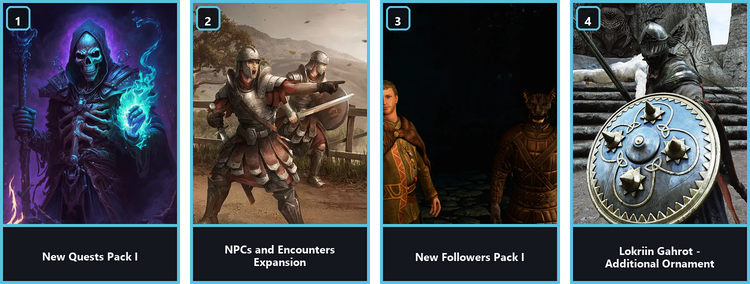
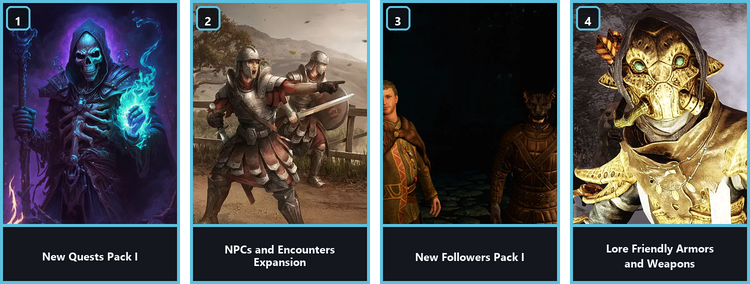
Add files via upload

Changed region(s): [[0.7667, 0.0, 1.0, 0.7887], [0.7973, 0.8451, 0.9507, 0.9577]]

diff --git a/ja1zamp_collections.html b/ja1zamp_collections.html
@@ -23,7 +23,7 @@ summary{cursor:pointer;color:#5bc0de;font-weight:bold;font-size:15px;}
 <h3>❗ Essentials</h3>
 <p class='note'>Pick ONE base: Use either SKSE and Behaviours Essentials (Full) or Truly Essentials for AE 1.6.1170 (Lite), never both. Bug Fixes & Optimization works alongside either one.</p>
 <div class='row-block'>
-<a href='https://www.nexusmods.com/profile/Ja1zinZamp/collections' target='_blank'><img src='cards/row_01_01.png?v=20261121205211'></a>
+<a href='https://www.nexusmods.com/profile/Ja1zinZamp/collections' target='_blank'><img src='cards/row_01_01.png?v=20261121210842'></a>
 <div class='pill-row'>
 <a class='pill' href='https://www.nexusmods.com/games/skyrimspecialedition/collections/h2uqa3' target='_blank' title='SKSE and Behaviours Essentials'>1. SKSE and<br>Behaviours<br>Essentials</a>
 <a class='pill' href='https://www.nexusmods.com/games/skyrimspecialedition/collections/llafgc' target='_blank' title='Truly Essentials for AE 1.6.1170'>2. Truly<br>Essentials for<br>AE 1.6.1170</a>
@@ -31,7 +31,7 @@ summary{cursor:pointer;color:#5bc0de;font-weight:bold;font-size:15px;}
 </div></div>
 <h3>🍦 Vanilla Overhaul</h3>
 <div class='row-block'>
-<a href='https://www.nexusmods.com/profile/Ja1zinZamp/collections' target='_blank'><img src='cards/row_02_01.png?v=20261121205211'></a>
+<a href='https://www.nexusmods.com/profile/Ja1zinZamp/collections' target='_blank'><img src='cards/row_02_01.png?v=20261121210842'></a>
 <div class='pill-row'>
 <a class='pill' href='https://www.nexusmods.com/games/skyrimspecialedition/collections/sto3mb' target='_blank' title='Vanilla Quests Expanded'>1. Vanilla<br>Quests Expanded</a>
 <a class='pill' href='https://www.nexusmods.com/games/skyrimspecialedition/collections/cujvny' target='_blank' title='Dragonborn DLC Overhaul'>2. Dragonborn<br>DLC Overhaul</a>
@@ -39,7 +39,7 @@ summary{cursor:pointer;color:#5bc0de;font-weight:bold;font-size:15px;}
 <a class='pill' href='https://www.nexusmods.com/games/skyrimspecialedition/collections/09afko' target='_blank' title='College of Winterhold Overhaul'>4. College of<br>Winterhold<br>Overhaul</a>
 </div></div>
 <div class='row-block'>
-<a href='https://www.nexusmods.com/profile/Ja1zinZamp/collections' target='_blank'><img src='cards/row_02_02.png?v=20261121205211'></a>
+<a href='https://www.nexusmods.com/profile/Ja1zinZamp/collections' target='_blank'><img src='cards/row_02_02.png?v=20261121210842'></a>
 <div class='pill-row'>
 <a class='pill' href='https://www.nexusmods.com/games/skyrimspecialedition/collections/arqlgk' target='_blank' title='Dark Brotherhood Overhaul'>5. Dark<br>Brotherhood<br>Overhaul</a>
 <a class='pill' href='https://www.nexusmods.com/games/skyrimspecialedition/collections/ezfrwp' target='_blank' title='The Companions Extended'>6. The<br>Companions<br>Extended</a>
@@ -48,7 +48,7 @@ summary{cursor:pointer;color:#5bc0de;font-weight:bold;font-size:15px;}
 </div></div>
 <h3>🎮 Gameplay and Animations</h3>
 <div class='row-block'>
-<a href='https://www.nexusmods.com/profile/Ja1zinZamp/collections' target='_blank'><img src='cards/row_03_01.png?v=20261121205211'></a>
+<a href='https://www.nexusmods.com/profile/Ja1zinZamp/collections' target='_blank'><img src='cards/row_03_01.png?v=20261121210842'></a>
 <div class='pill-row'>
 <a class='pill' href='https://www.nexusmods.com/games/skyrimspecialedition/collections/eig8v7' target='_blank' title='The Simplest Better Skyrim'>1. The Simplest<br>Better Skyrim</a>
 <a class='pill' href='https://www.nexusmods.com/games/skyrimspecialedition/collections/fccua3' target='_blank' title='Animations Reworked'>2. Animations<br>Reworked</a>
@@ -56,7 +56,7 @@ summary{cursor:pointer;color:#5bc0de;font-weight:bold;font-size:15px;}
 <a class='pill' href='https://www.nexusmods.com/games/skyrimspecialedition/collections/8w2hqx' target='_blank' title='Shouts and Dragons Overhaul'>4. Shouts and<br>Dragons<br>Overhaul</a>
 </div></div>
 <div class='row-block'>
-<a href='https://www.nexusmods.com/profile/Ja1zinZamp/collections' target='_blank'><img src='cards/row_03_02.png?v=20261121205211'></a>
+<a href='https://www.nexusmods.com/profile/Ja1zinZamp/collections' target='_blank'><img src='cards/row_03_02.png?v=20261121210842'></a>
 <div class='pill-row'>
 <a class='pill' href='https://www.nexusmods.com/games/skyrimspecialedition/collections/36l5v1' target='_blank' title='Logical Races System'>5. Logical<br>Races System</a>
 <a class='pill' href='https://www.nexusmods.com/games/skyrimspecialedition/collections/9y11vf' target='_blank' title='Vokun - Stealth & Crime Overhaul'>6. Vokun -<br>Stealth & Crime<br>Overhaul</a>
@@ -65,7 +65,7 @@ summary{cursor:pointer;color:#5bc0de;font-weight:bold;font-size:15px;}
 </div></div>
 <h3>🤿 Immersion Packs</h3>
 <div class='row-block'>
-<a href='https://www.nexusmods.com/profile/Ja1zinZamp/collections' target='_blank'><img src='cards/row_04_01.png?v=20261121205211'></a>
+<a href='https://www.nexusmods.com/profile/Ja1zinZamp/collections' target='_blank'><img src='cards/row_04_01.png?v=20261121210842'></a>
 <div class='pill-row'>
 <a class='pill' href='https://www.nexusmods.com/games/skyrimspecialedition/collections/axpfyb' target='_blank' title='Seasonal Skyrim'>1. Seasonal<br>Skyrim</a>
 <a class='pill' href='https://www.nexusmods.com/games/skyrimspecialedition/collections/cqbmcq' target='_blank' title='Immersive, Logical and Alive'>2. Immersive,<br>Logical and<br>Alive</a>
@@ -74,7 +74,7 @@ summary{cursor:pointer;color:#5bc0de;font-weight:bold;font-size:15px;}
 <h3>🤩 Graphics, Models, and/or Visuals</h3>
 <p class='note'>Lighting / Shader Choice (Cards 1 & 2): Pick either Community Shaders Visual Overhaul or The ENB Pack, never both.</p>
 <div class='row-block'>
-<a href='https://www.nexusmods.com/profile/Ja1zinZamp/collections' target='_blank'><img src='cards/row_05_01.png?v=20261121205211'></a>
+<a href='https://www.nexusmods.com/profile/Ja1zinZamp/collections' target='_blank'><img src='cards/row_05_01.png?v=20261121210842'></a>
 <div class='pill-row'>
 <a class='pill' href='https://www.nexusmods.com/games/skyrimspecialedition/collections/3xydf5' target='_blank' title='Community Shaders Visual Overhaul'>1. Community<br>Shaders Visual<br>Overhaul</a>
 <a class='pill' href='https://www.nexusmods.com/games/skyrimspecialedition/collections/qzf5tw' target='_blank' title='The ENB Pack'>2. The ENB Pack</a>
@@ -82,7 +82,7 @@ summary{cursor:pointer;color:#5bc0de;font-weight:bold;font-size:15px;}
 <a class='pill' href='https://www.nexusmods.com/games/skyrimspecialedition/collections/z59iek' target='_blank' title='Architecture Models Redone - 2K'>4. Architecture<br>Models Redone -<br>2K</a>
 </div></div>
 <div class='row-block'>
-<a href='https://www.nexusmods.com/profile/Ja1zinZamp/collections' target='_blank'><img src='cards/row_05_02.png?v=20261121205211'></a>
+<a href='https://www.nexusmods.com/profile/Ja1zinZamp/collections' target='_blank'><img src='cards/row_05_02.png?v=20261121210842'></a>
 <div class='pill-row'>
 <a class='pill' href='https://www.nexusmods.com/games/skyrimspecialedition/collections/rbwqpm' target='_blank' title='Simple Aesthetics Overhaul'>5. Simple<br>Aesthetics<br>Overhaul</a>
 <a class='pill' href='https://www.nexusmods.com/games/skyrimspecialedition/collections/vxmjbf' target='_blank' title='Objects & Effects Replacers 2K-1K'>6. Objects &<br>Effects<br>Replacers 2K-1K</a>
@@ -90,7 +90,7 @@ summary{cursor:pointer;color:#5bc0de;font-weight:bold;font-size:15px;}
 <a class='pill' href='https://www.nexusmods.com/games/skyrimspecialedition/collections/5bllbm' target='_blank' title='Gahrot Zoloh - Ornament Replacers'>8. Gahrot Zoloh<br>- Ornament<br>Replacers</a>
 </div></div>
 <div class='row-block'>
-<a href='https://www.nexusmods.com/profile/Ja1zinZamp/collections' target='_blank'><img src='cards/row_05_03.png?v=20261121205211'></a>
+<a href='https://www.nexusmods.com/profile/Ja1zinZamp/collections' target='_blank'><img src='cards/row_05_03.png?v=20261121210842'></a>
 <div class='pill-row'>
 <a class='pill' href='https://www.nexusmods.com/games/skyrimspecialedition/collections/8lsnml' target='_blank' title='Basic Nature Graphics Overhaul'>9. Basic Nature<br>Graphics<br>Overhaul</a>
 <a class='pill' href='https://www.nexusmods.com/games/skyrimspecialedition/collections/xdrma2' target='_blank' title='Lights and Shadows Improved - ELFX'>10. Lights and<br>Shadows<br>Improved - ELFX</a>
@@ -99,22 +99,22 @@ summary{cursor:pointer;color:#5bc0de;font-weight:bold;font-size:15px;}
 </div></div>
 <h3>💻 UI, Interface, Audio, and Quality of Life</h3>
 <div class='row-block'>
-<a href='https://www.nexusmods.com/profile/Ja1zinZamp/collections' target='_blank'><img src='cards/row_06_01.png?v=20261121205211'></a>
+<a href='https://www.nexusmods.com/profile/Ja1zinZamp/collections' target='_blank'><img src='cards/row_06_01.png?v=20261121210842'></a>
 <div class='pill-row'>
 <a class='pill' href='https://www.nexusmods.com/games/skyrimspecialedition/collections/3x34j5' target='_blank' title='Please, Please my Ears'>1. Please,<br>Please my Ears</a>
 <a class='pill' href='https://www.nexusmods.com/games/skyrimspecialedition/collections/nz4y4l' target='_blank' title='Just QOLity Mods'>2. Just QOLity<br>Mods</a>
 </div></div>
 <h3>➕ Additions</h3>
 <div class='row-block'>
-<a href='https://www.nexusmods.com/profile/Ja1zinZamp/collections' target='_blank'><img src='cards/row_07_01.png?v=20261121205211'></a>
+<a href='https://www.nexusmods.com/profile/Ja1zinZamp/collections' target='_blank'><img src='cards/row_07_01.png?v=20261121210842'></a>
 <div class='pill-row'>
 <a class='pill' href='https://www.nexusmods.com/games/skyrimspecialedition/collections/j1lowz' target='_blank' title='New Quests Pack I'>1. New Quests<br>Pack I</a>
 <a class='pill' href='https://www.nexusmods.com/games/skyrimspecialedition/collections/xgabfh' target='_blank' title='NPCs and Encounters Expansion'>2. NPCs and<br>Encounters<br>Expansion</a>
 <a class='pill' href='https://www.nexusmods.com/games/skyrimspecialedition/collections/jakivi' target='_blank' title='New Followers Pack I'>3. New<br>Followers Pack<br>I</a>
-<a class='pill' href='https://www.nexusmods.com/games/skyrimspecialedition/collections/osqaat' target='_blank' title='Lokriin Gahrot - Additional Ornament'>4. Lokriin<br>Gahrot -<br>Additional<br>Ornament</a>
+<a class='pill' href='https://www.nexusmods.com/games/skyrimspecialedition/collections/ishctw' target='_blank' title='Lore Friendly Armors and Weapons'>4. Lore<br>Friendly Armors<br>and Weapons</a>
 </div></div>
 <div class='row-block'>
-<a href='https://www.nexusmods.com/profile/Ja1zinZamp/collections' target='_blank'><img src='cards/row_07_02.png?v=20261121205211'></a>
+<a href='https://www.nexusmods.com/profile/Ja1zinZamp/collections' target='_blank'><img src='cards/row_07_02.png?v=20261121210842'></a>
 <div class='pill-row'>
 <a class='pill' href='https://www.nexusmods.com/games/skyrimspecialedition/collections/qv0kon' target='_blank' title='Zun - Additonal Weaponry'>5. Zun -<br>Additonal<br>Weaponry</a>
 <a class='pill' href='https://www.nexusmods.com/games/skyrimspecialedition/collections/a2slwp' target='_blank' title='Skyrim's Most Extraordinary Homes'>6. Skyrim's<br>Most<br>Extraordinary<br>Homes</a>
@@ -124,7 +124,7 @@ summary{cursor:pointer;color:#5bc0de;font-weight:bold;font-size:15px;}
 <h3>🤏🏼 Tiny Packs Series</h3>
 <p class='note'>Alternate Start Choice (Cards 1 & 2): Pick either Alternate Start Pack or Alternate Perspective, never both.</p>
 <div class='row-block'>
-<a href='https://www.nexusmods.com/profile/Ja1zinZamp/collections' target='_blank'><img src='cards/row_08_01.png?v=20261121205211'></a>
+<a href='https://www.nexusmods.com/profile/Ja1zinZamp/collections' target='_blank'><img src='cards/row_08_01.png?v=20261121210842'></a>
 <div class='pill-row'>
 <a class='pill' href='https://www.nexusmods.com/games/skyrimspecialedition/collections/ru1mag' target='_blank' title='Alternate Start Pack - TPS'>1. Alternate<br>Start Pack -<br>TPS</a>
 <a class='pill' href='https://www.nexusmods.com/games/skyrimspecialedition/collections/jm0s86' target='_blank' title='Alternate Perspective - TPS'>2. Alternate<br>Perspective -<br>TPS</a>
@@ -132,15 +132,14 @@ summary{cursor:pointer;color:#5bc0de;font-weight:bold;font-size:15px;}
 <a class='pill' href='https://www.nexusmods.com/games/skyrimspecialedition/collections/ix4kq8' target='_blank' title='SunHelm Survival & Needs Pack - TPS'>4. SunHelm<br>Survival &<br>Needs Pack -<br>TPS</a>
 </div></div>
 <div class='row-block'>
-<a href='https://www.nexusmods.com/profile/Ja1zinZamp/collections' target='_blank'><img src='cards/row_08_02.png?v=20261121205211'></a>
+<a href='https://www.nexusmods.com/profile/Ja1zinZamp/collections' target='_blank'><img src='cards/row_08_02.png?v=20261121210842'></a>
 <div class='pill-row'>
 <a class='pill' href='https://www.nexusmods.com/games/skyrimspecialedition/collections/figuae' target='_blank' title='Immersive Horses Pack - TPS'>5. Immersive<br>Horses Pack -<br>TPS</a>
 <a class='pill' href='https://www.nexusmods.com/games/skyrimspecialedition/collections/wvjhmt' target='_blank' title='The Spell Research Pack - TPS'>6. The Spell<br>Research Pack -<br>TPS</a>
-<a class='pill' href='https://www.nexusmods.com/games/skyrimspecialedition/collections/htiyiw' target='_blank' title='The Ultimate Dodge Pack - TPS'>7. The Ultimate<br>Dodge Pack -<br>TPS</a>
 </div></div>
 <h3>🏞 Locations Overhauls</h3>
 <div class='row-block'>
-<a href='https://www.nexusmods.com/profile/Ja1zinZamp/collections' target='_blank'><img src='cards/row_09_01.png?v=20261121205211'></a>
+<a href='https://www.nexusmods.com/profile/Ja1zinZamp/collections' target='_blank'><img src='cards/row_09_01.png?v=20261121210842'></a>
 <div class='pill-row'>
 <a class='pill' href='https://www.nexusmods.com/games/skyrimspecialedition/collections/fodb5d' target='_blank' title='Some Vanilla Locations Overhauled'>1. Some Vanilla<br>Locations<br>Overhauled</a>
 <a class='pill' href='https://www.nexusmods.com/games/skyrimspecialedition/collections/y85qcw' target='_blank' title='Whiterun Overhaul - TPS'>2. Whiterun<br>Overhaul - TPS</a>
@@ -148,7 +147,7 @@ summary{cursor:pointer;color:#5bc0de;font-weight:bold;font-size:15px;}
 <a class='pill' href='https://www.nexusmods.com/games/skyrimspecialedition/collections/amgshn' target='_blank' title='Riften Overhaul - TPS'>4. Riften<br>Overhaul - TPS</a>
 </div></div>
 <div class='row-block'>
-<a href='https://www.nexusmods.com/profile/Ja1zinZamp/collections' target='_blank'><img src='cards/row_09_02.png?v=20261121205211'></a>
+<a href='https://www.nexusmods.com/profile/Ja1zinZamp/collections' target='_blank'><img src='cards/row_09_02.png?v=20261121210842'></a>
 <div class='pill-row'>
 <a class='pill' href='https://www.nexusmods.com/games/skyrimspecialedition/collections/0jfr1e' target='_blank' title='Solitude Overhaul - TPS'>5. Solitude<br>Overhaul - TPS</a>
 <a class='pill' href='https://www.nexusmods.com/games/skyrimspecialedition/collections/3cbhcg' target='_blank' title='Windhelm Overhaul - TPS'>6. Windhelm<br>Overhaul - TPS</a>
@@ -156,17 +155,18 @@ summary{cursor:pointer;color:#5bc0de;font-weight:bold;font-size:15px;}
 <h3>🏗 Full Modlist Sub-Modules</h3>
 <p class='note'>WIP / Check Conflicts Yourself: Compatible with the rest of my collections, but please disable any incompatible plugins in your mod manager and give me feedback on their working status.</p>
 <div class='row-block'>
-<a href='https://www.nexusmods.com/profile/Ja1zinZamp/collections' target='_blank'><img src='cards/row_10_01.png?v=20261121205211'></a>
+<a href='https://www.nexusmods.com/profile/Ja1zinZamp/collections' target='_blank'><img src='cards/row_10_01.png?v=20261121210842'></a>
 <div class='pill-row'>
 <a class='pill' href='https://www.nexusmods.com/games/skyrimspecialedition/collections/aegqcd' target='_blank' title='ZAM Full Locations & Cities Overhaul'>1. ZAM Full<br>Locations &<br>Cities Overhaul</a>
 </div></div>
 <details><summary>👴🏼 Legacy / Discontinued Collections (1.5.97 / No Longer Updated) (Click to expand)</summary>
 <div class='row-block'>
-<a href='https://www.nexusmods.com/profile/Ja1zinZamp/collections' target='_blank'><img src='cards/row_11_01.png?v=20261121205211'></a>
+<a href='https://www.nexusmods.com/profile/Ja1zinZamp/collections' target='_blank'><img src='cards/row_11_01.png?v=20261121210842'></a>
 <div class='pill-row'>
 <a class='pill' href='https://www.nexusmods.com/games/skyrimspecialedition/collections/zkztht' target='_blank' title='Nordic UI and HUD Pack - TPS'>1. Nordic UI<br>and HUD Pack -<br>TPS</a>
 <a class='pill' href='https://www.nexusmods.com/games/skyrimspecialedition/collections/zmveus' target='_blank' title='Edge UI and HUD Pack - TPS'>2. Edge UI and<br>HUD Pack - TPS</a>
-<a class='pill' href='https://www.nexusmods.com/games/skyrimspecialedition/collections/ishctw' target='_blank' title='Lore Friendly Armors and Weapons'>3. Lore<br>Friendly Armors<br>and Weapons</a>
+<a class='pill' href='https://www.nexusmods.com/games/skyrimspecialedition/collections/osqaat' target='_blank' title='Lokriin Gahrot - Additional Ornament'>3. Lokriin<br>Gahrot -<br>Additional<br>Ornament</a>
+<a class='pill' href='https://www.nexusmods.com/games/skyrimspecialedition/collections/htiyiw' target='_blank' title='The Ultimate Dodge Pack - TPS'>4. The Ultimate<br>Dodge Pack -<br>TPS</a>
 </div></div>
 </details>
 </body></html>

diff --git a/README.md b/README.md
@@ -7,9 +7,10 @@ Browse all active collections on [Nexus Mods](https://www.nexusmods.com/profile/
 <details>
 <summary><strong>👴🏼 Click to expand Legacy / Discontinued Collections (1.5.97 / No Longer Updated)</strong></summary>
 
-[![👴🏼 Legacy / Discontinued Collections (1.5.97 / No Longer Updated)](https://raw.githubusercontent.com/Ja1zin/nexus-collection-cards/main/cards/row_11_01.png?v=20261121205211)](https://www.nexusmods.com/profile/Ja1zinZamp/collections)  
-[` 1. Nordic UI  `](https://www.nexusmods.com/games/skyrimspecialedition/collections/zkztht "Nordic UI and HUD Pack - TPS")   [`2. Edge UI and `](https://www.nexusmods.com/games/skyrimspecialedition/collections/zmveus "Edge UI and HUD Pack - TPS")   [`    3. Lore    `](https://www.nexusmods.com/games/skyrimspecialedition/collections/ishctw "Lore Friendly Armors and Weapons")  
-[`and HUD Pack ‑ `](https://www.nexusmods.com/games/skyrimspecialedition/collections/zkztht "Nordic UI and HUD Pack - TPS")   [`HUD Pack ‑ TPS `](https://www.nexusmods.com/games/skyrimspecialedition/collections/zmveus "Edge UI and HUD Pack - TPS")   [`Friendly Armors`](https://www.nexusmods.com/games/skyrimspecialedition/collections/ishctw "Lore Friendly Armors and Weapons")  
-[`      TPS      `](https://www.nexusmods.com/games/skyrimspecialedition/collections/zkztht "Nordic UI and HUD Pack - TPS")   [`               `](https://www.nexusmods.com/games/skyrimspecialedition/collections/zmveus "Edge UI and HUD Pack - TPS")   [`  and Weapons  `](https://www.nexusmods.com/games/skyrimspecialedition/collections/ishctw "Lore Friendly Armors and Weapons")
+[![👴🏼 Legacy / Discontinued Collections (1.5.97 / No Longer Updated)](https://raw.githubusercontent.com/Ja1zin/nexus-collection-cards/main/cards/row_11_01.png?v=20261121210842)](https://www.nexusmods.com/profile/Ja1zinZamp/collections)  
+[` 1. Nordic UI  `](https://www.nexusmods.com/games/skyrimspecialedition/collections/zkztht "Nordic UI and HUD Pack - TPS")  [`2. Edge UI and `](https://www.nexusmods.com/games/skyrimspecialedition/collections/zmveus "Edge UI and HUD Pack - TPS")  [`  3. Lokriin   `](https://www.nexusmods.com/games/skyrimspecialedition/collections/osqaat "Lokriin Gahrot - Additional Ornament")  [`4. The Ultimate`](https://www.nexusmods.com/games/skyrimspecialedition/collections/htiyiw "The Ultimate Dodge Pack - TPS")  
+[`and HUD Pack ‑ `](https://www.nexusmods.com/games/skyrimspecialedition/collections/zkztht "Nordic UI and HUD Pack - TPS")  [`HUD Pack ‑ TPS `](https://www.nexusmods.com/games/skyrimspecialedition/collections/zmveus "Edge UI and HUD Pack - TPS")  [`   Gahrot ‑    `](https://www.nexusmods.com/games/skyrimspecialedition/collections/osqaat "Lokriin Gahrot - Additional Ornament")  [` Dodge Pack ‑  `](https://www.nexusmods.com/games/skyrimspecialedition/collections/htiyiw "The Ultimate Dodge Pack - TPS")  
+[`      TPS      `](https://www.nexusmods.com/games/skyrimspecialedition/collections/zkztht "Nordic UI and HUD Pack - TPS")  [`               `](https://www.nexusmods.com/games/skyrimspecialedition/collections/zmveus "Edge UI and HUD Pack - TPS")  [`  Additional   `](https://www.nexusmods.com/games/skyrimspecialedition/collections/osqaat "Lokriin Gahrot - Additional Ornament")  [`      TPS      `](https://www.nexusmods.com/games/skyrimspecialedition/collections/htiyiw "The Ultimate Dodge Pack - TPS")  
+[`               `](https://www.nexusmods.com/games/skyrimspecialedition/collections/zkztht "Nordic UI and HUD Pack - TPS")  [`               `](https://www.nexusmods.com/games/skyrimspecialedition/collections/zmveus "Edge UI and HUD Pack - TPS")  [`   Ornament    `](https://www.nexusmods.com/games/skyrimspecialedition/collections/osqaat "Lokriin Gahrot - Additional Ornament")  [`               `](https://www.nexusmods.com/games/skyrimspecialedition/collections/htiyiw "The Ultimate Dodge Pack - TPS")
 
 </details>
